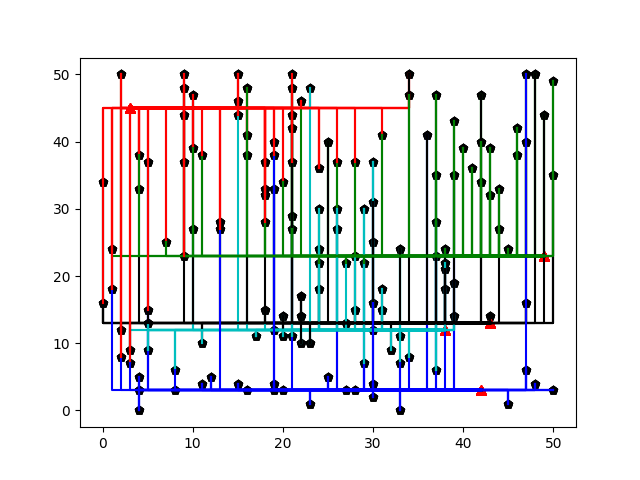
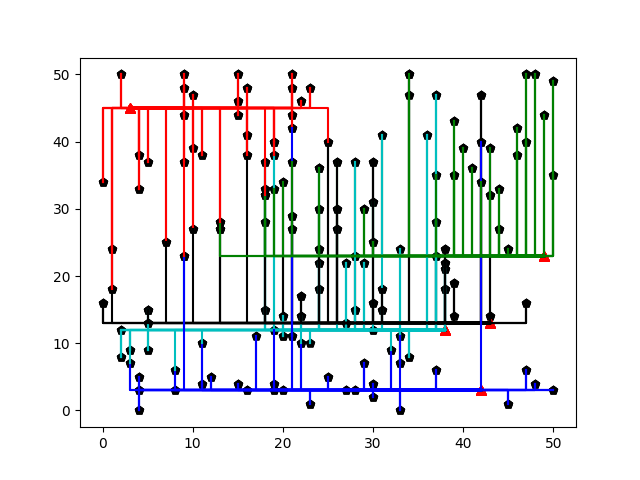
bijna bijna klaar

diff --git a/main.py b/main.py
@@ -15,25 +15,28 @@ if len(argv) < 3:
     exit()
     
 else:
-    print(f"Please select an algorithm to run:1 = Randomize\n2 = HillClimber\n3 = Constraint relaxation\n")
+    print(f"Please select an algorithm to run:\n1 = Randomize\n2 = HillClimber\n3 = Constraint relaxation\n")
     print("Please be aware that the first two algorithms both have overlapping cables")
 
     algo_choice = input(f"Please make a choice: between 1, 2 and 3\n")
 
     if algo_choice == '1':
         print(f"The total costs for this district are: {algorithms.Random.random_algorithm()}")
-        plot_choice = input("Do you like to see the visualization and output? ,Y/N: ")
+        plot_choice = input("Do you like to see the visualization and output? Y/N: ")
         
-        if plot_choice == 'Y' or 'y' or 'yes' or 'Yes':
+
+        if plot_choice in ['Y', 'y', 'Yes', 'yes']:
             algorithms.Random.plot_random_algorithm()
             algorithms.Random.run_rand_output()      
 
-            multiple_choice = input("Would you like to run this algorithm multiple times to get the optimal result? Y/N ")
-            if multiple_choice == 'Y' or 'y' or 'yes' or 'Yes':
+            multiple_choice = input("Would you like to run this algorithm multiple times to get the optimal result? Y/N: ")
+            if multiple_choice in ['Y', 'y', 'Yes', 'yes']:
                 algorithms.Random.run_multiple_times()
             else:
                 print('Okay ¯\_( ͡❛ ͜ʖ ͡❛)_/¯ ') 
                 exit()
+        else:
+            exit()
 
     elif algo_choice == '2':
         algorithms.Hillclimber.first_algorithm()
@@ -41,32 +44,36 @@ else:
 
         plot_choice = input("Do you like to see the visualization and output?, Y/N: ")
     
-        if plot_choice == 'Y' or 'y' or 'yes' or 'Yes':
+        if plot_choice in ['Y', 'y', 'Yes', 'yes']:
             algorithms.Hillclimber.plot_first_algorithm()
             algorithms.Hillclimber.run_output()
 
-            multiple_choice = input("Would you like to run this algorithm multiple times to get the optimal result? Y/N ")
-            if multiple_choice == 'Y' or 'y' or 'yes' or 'Yes':
+            multiple_choice = input("Would you like to run this algorithm multiple times to get the optimal result? Y/N: ")
+            if multiple_choice in ['Y', 'y', 'Yes', 'yes']:
                 algorithms.Hillclimber.run_multiple_times()
             else:
                 print('Okay ¯\_( ͡❛ ͜ʖ ͡❛)_/¯ ') 
                 exit()   
+        else:
+            exit()
 
     elif algo_choice == '3':
         algorithms.ConstraintRelaxation.optimum_creating()
 
         plot_choice = input("Do you like to see the visualization and output?, Y/N: ")
 
-        if plot_choice == 'Y' or 'y' or 'Yes' or 'yes':
+        if plot_choice in ['Y', 'y', 'Yes', 'yes']:
             algorithms.ConstraintRelaxation.constraint_relaxation()
             algorithms.ConstraintRelaxation.run_output()
 
-            multiple_choice = input("Would you like to run this algorithm multiple times to get the optimal result? Y/N")
-            if multiple_choice == 'Y' or 'y' or 'yes' or 'Yes':
+            multiple_choice = input("Would you like to run this algorithm multiple times to get the optimal result? Y/N: ")
+            if multiple_choice in ['Y', 'y', 'Yes', 'yes']:
                 algorithms.ConstraintRelaxation.run_multiple_times()
             else:
                 print('Okay ¯\_( ͡❛ ͜ʖ ͡❛)_/¯ ') 
-                exit()       
+                exit()    
+        else:
+            exit()   
             
     elif algo_choice not in ['1', '2', '3']:
         print("Please make a choice between 1 and 3")

diff --git a/algorithms/helper.py b/algorithms/helper.py
@@ -34,7 +34,7 @@ def run_swap(curr_battery, curr_house, next_battery, next_house):
 
         # remove current house van current battery
         curr_battery.remove_house(curr_house)
-        curr_house.deconnect_to_battery(curr_battery)
+        curr_house.disconnect_battery(curr_battery)
 
     # connect next house aan current battery
     curr_battery.connect_house(next_house)
@@ -42,7 +42,7 @@ def run_swap(curr_battery, curr_house, next_battery, next_house):
 
     # remove next house van next battery
     next_battery.remove_house(next_house)
-    next_house.deconnect_to_battery(next_battery)
+    next_house.disconnect_battery(next_battery)
 
     # connect current house aan next battery
     next_battery.connect_house(curr_house)

diff --git a/algorithms/ConstraintRelaxation.py b/algorithms/ConstraintRelaxation.py
@@ -73,8 +73,8 @@ def optimum_creating():
             battery.connect_house(house)
 
             # adds costs of cables for this house to the battery
-            house.add_costs(battery)
-            battery.add_house_info(house)
+            # house.add_costs(battery)
+            # battery.add_house_info(house)
             
             # no unused houses left, applies hillclimber to optimalize connections
             if len(unused_houses) <= 1:

diff --git a/algorithms/Hillclimber.py b/algorithms/Hillclimber.py
@@ -65,6 +65,7 @@ def first_algorithm():
 
             # no unused houses left, applies hillclimber to optimalize connections
             if unused_houses == []:     
+                helper.hillclimber(batteries, houses)
 
 def calc_total_cost():
     """
